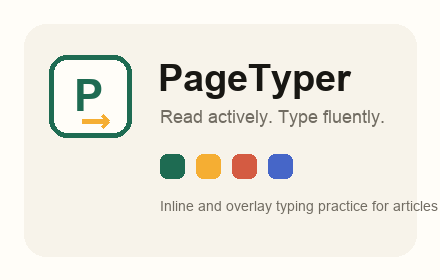
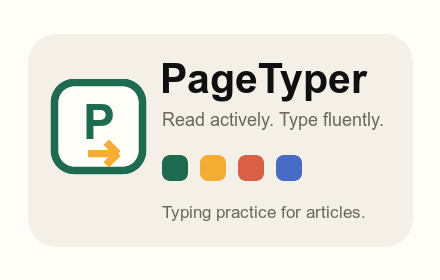
fix: prevent promo image text overflow

Changed region(s): [[0.0886, 0.1714, 0.8864, 0.6571], [0.3545, 0.7143, 1.0, 0.8]]

diff --git a/README.md b/README.md
@@ -2,7 +2,7 @@
 
 PageTyper is a Chrome extension prototype that turns the article you are reading into a typing practice layer.
 
-![PageTyper promo](store-assets/promo-small-440x280.png)
+![PageTyper promo](store-assets/github-promo.svg)
 
 ## MVP
 
@@ -34,6 +34,7 @@ Settings are saved with `chrome.storage.sync`. Milestone stats and badges are sa
 ## Chrome Web Store Assets
 
 - Extension icons: `assets/icon-16.png`, `assets/icon-32.png`, `assets/icon-48.png`, `assets/icon-128.png`
+- GitHub promotional image: `store-assets/github-promo.svg`
 - Small promotional image: `store-assets/promo-small-440x280.png`
 - Screenshot: `store-assets/screenshot-1280x800.png`
 - Listing copy: `store-listing/listing.md`